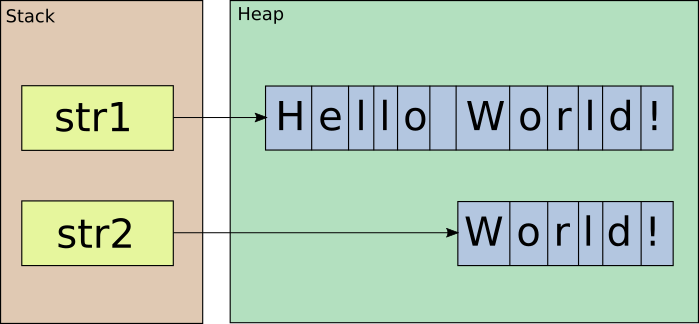
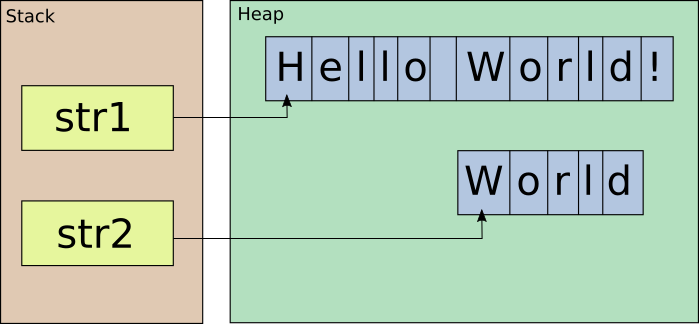
span

Changed region(s): [[0.2403, 0.0926, 0.9614, 0.8333]]

diff --git a/PITCHME.md b/PITCHME.md
@@ -509,9 +509,23 @@ Imagine we want to output a segment of string...
 
 +++
 
-### Substring
-
 ![Substring](Substring.png)
+
+NOTE:
+
+- Substring:
+  + allocates a new array, 
+  + copies elements
+  + returns a reference to it.
+- Strings are immutable.
+- The Substring is also immutables
+- Why do I need to copy just to access a portion??? 
+
++++
+
+![Span](Span.png)
+
+NOTE:
 
 ---
 
